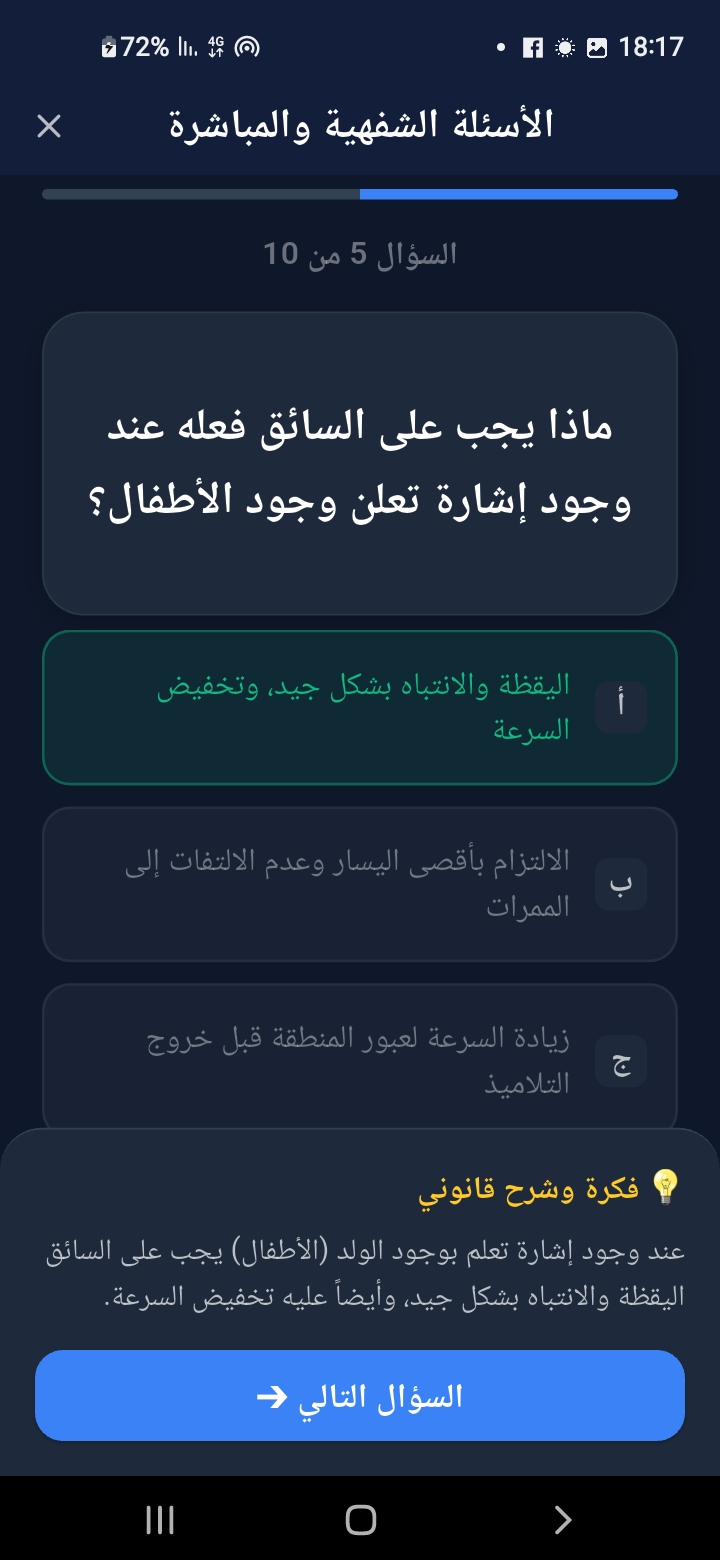
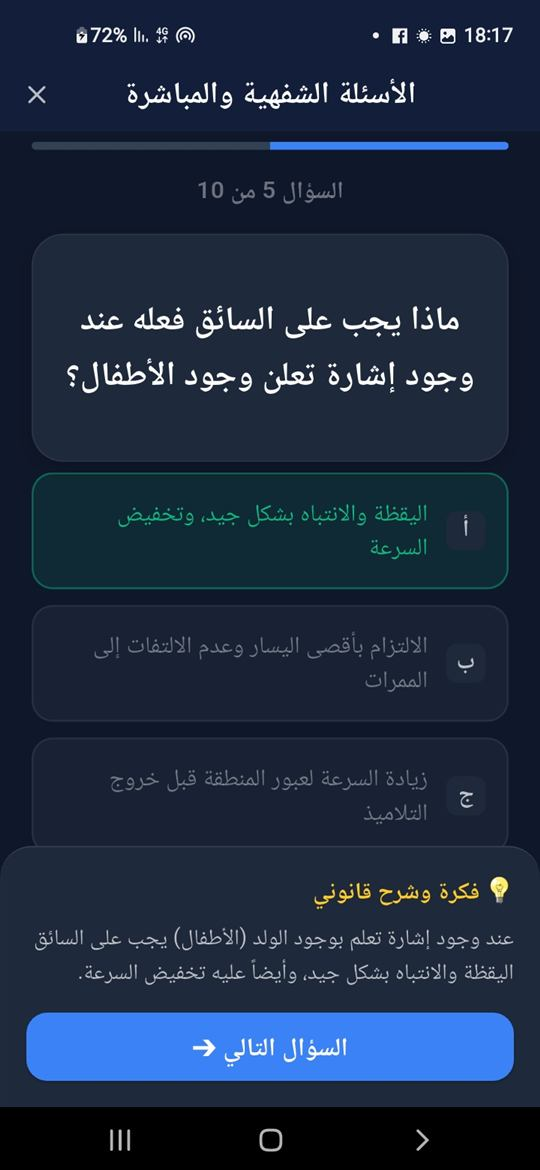
perf(web): branded boot loader, lighter assets, faster startup
- add custom flutter_bootstrap.js that hides the splash only after runApp()
  and shows a retry message after 60s
- index.html: remove blocking pdf.js, lang=ar/dir=rtl, real Arabic title,
  description + OG/Twitter tags, preconnect gstatic/fonts.gstatic, preload
  main.dart.js, lightweight CSS boot screen (no extra image request)
- disable the deprecated Flutter service worker (avoids a forced reload)
- resize logo 824px/1.13MB -> 384px/255KB
- recompress app screenshots 720px -> 540px (1.29MB -> 310KB total)
- Arabic document title from MaterialApp

diff --git a/web/index.html b/web/index.html
@@ -1,50 +1,169 @@
 <!DOCTYPE html>
-<html>
+<html lang="ar" dir="rtl">
 
 <head>
-  <!--
-    If you are serving your web app in a path other than the root, change the
-    href value below to reflect the base path you are serving from.
-
-    The path provided below has to start and end with a slash "/" in order for
-    it to work correctly.
-
-    For more details:
-    * https://developer.mozilla.org/en-US/docs/Web/HTML/Element/base
-
-    This is a placeholder for base href that will be replaced by the value of
-    the `--base-href` argument provided to `flutter build`.
-  -->
   <base href="$FLUTTER_BASE_HREF">
 
   <meta charset="UTF-8">
   <meta content="IE=Edge" http-equiv="X-UA-Compatible">
-  <meta name="description" content="A new Flutter project.">
+  <meta name="viewport" content="width=device-width, initial-scale=1.0, viewport-fit=cover">
+  <meta name="theme-color" content="#0F4C81">
+
+  <title>فيراج | تحضير امتحان رخصة السياقة في الجزائر</title>
+  <meta name="description"
+    content="فيراج (VIRAGE): تطبيق جزائري لتحضير امتحان رخصة السياقة — أسئلة الامتحان النظري، الإشارات المرورية، الأسئلة الشفهية، والثقافة المرورية. تدرّب وحمّل التطبيق مجاناً.">
+  <meta name="keywords" content="رخصة السياقة, امتحان السياقة, فيراج, VIRAGE, الإشارات المرورية, الأسئلة الشفهية, الجزائر">
+  <link rel="canonical" href="https://best1of1me.github.io/virage_web/">
+
+  <!-- Open Graph / Twitter -->
+  <meta property="og:type" content="website">
+  <meta property="og:site_name" content="فيراج - VIRAGE">
+  <meta property="og:locale" content="ar_DZ">
+  <meta property="og:title" content="فيراج | تحضير امتحان رخصة السياقة في الجزائر">
+  <meta property="og:description"
+    content="أسئلة الامتحان النظري، الإشارات المرورية، الأسئلة الشفهية والثقافة المرورية — كل ما تحتاجه للنجاح في امتحان رخصة السياقة.">
+  <meta property="og:url" content="https://best1of1me.github.io/virage_web/">
+  <meta property="og:image" content="https://best1of1me.github.io/virage_web/icons/Icon-512.png">
+  <meta name="twitter:card" content="summary_large_image">
+  <meta name="twitter:title" content="فيراج | تحضير امتحان رخصة السياقة في الجزائر">
+  <meta name="twitter:description"
+    content="أسئلة الامتحان النظري، الإشارات المرورية، الأسئلة الشفهية والثقافة المرورية — كل ما تحتاجه للنجاح.">
+  <meta name="twitter:image" content="https://best1of1me.github.io/virage_web/icons/Icon-512.png">
 
   <!-- iOS meta tags & icons -->
   <meta name="mobile-web-app-capable" content="yes">
-  <meta name="apple-mobile-web-app-status-bar-style" content="black">
-  <meta name="apple-mobile-web-app-title" content="virage_web">
+  <meta name="apple-mobile-web-app-status-bar-style" content="black-translucent">
+  <meta name="apple-mobile-web-app-title" content="فيراج">
   <link rel="apple-touch-icon" href="icons/Icon-192.png">
 
   <!-- Favicon -->
   <link rel="icon" type="image/png" href="favicon.png" />
 
-  <title>virage_web</title>
   <link rel="manifest" href="manifest.json">
+
+  <!-- Speed up the CanvasKit download from gstatic -->
+  <link rel="preconnect" href="https://www.gstatic.com" crossorigin>
+  <link rel="dns-prefetch" href="https://www.gstatic.com">
+  <!-- CanvasKit fetches fallback fonts (Arabic/Latin) from fonts.gstatic.com -->
+  <link rel="preconnect" href="https://fonts.gstatic.com" crossorigin>
+  <!-- Start the app bundle download in parallel with flutter_bootstrap.js -->
+  <link rel="preload" href="main.dart.js" as="script">
+
+  <style>
+    :root {
+      --brand: #0F4C81;
+      --brand-2: #1E88E5;
+    }
+
+    html,
+    body {
+      margin: 0;
+      padding: 0;
+      height: 100%;
+      background: #F4F6F8;
+      font-family: "Segoe UI", "Noto Kufi Arabic", "Cairo", Tahoma, Arial, sans-serif;
+    }
+
+    #boot-loader {
+      position: fixed;
+      inset: 0;
+      z-index: 2147483647;
+      display: flex;
+      flex-direction: column;
+      align-items: center;
+      justify-content: center;
+      gap: 18px;
+      background: linear-gradient(160deg, var(--brand) 0%, #0B3A63 55%, var(--brand-2) 100%);
+      color: #fff;
+      transition: opacity .35s ease;
+      overscroll-behavior: none;
+      text-align: center;
+      padding: 24px;
+      box-sizing: border-box;
+    }
+
+    #boot-loader.is-hidden {
+      opacity: 0;
+      pointer-events: none;
+    }
+
+    .boot-mark {
+      font-size: clamp(34px, 11vw, 56px);
+      font-weight: 800;
+      letter-spacing: .22em;
+      margin-inline-start: .22em;
+      line-height: 1;
+    }
+
+    .boot-mark span {
+      color: #8FD3FF;
+    }
+
+    .boot-sub {
+      font-size: 15px;
+      opacity: .92;
+      margin: 0;
+      max-width: 22em;
+      line-height: 1.7;
+    }
+
+    .boot-ring {
+      width: 34px;
+      height: 34px;
+      border-radius: 50%;
+      border: 3px solid rgba(255, 255, 255, .25);
+      border-top-color: #fff;
+      animation: boot-spin 900ms linear infinite;
+    }
+
+    @keyframes boot-spin {
+      to {
+        transform: rotate(360deg);
+      }
+    }
+
+    #boot-failure {
+      display: none;
+      font-size: 14px;
+      line-height: 1.9;
+      background: rgba(0, 0, 0, .22);
+      padding: 14px 18px;
+      border-radius: 14px;
+      max-width: 26em;
+    }
+
+    #boot-failure a {
+      color: #FFE9A8;
+    }
+
+    @media (prefers-reduced-motion: reduce) {
+      .boot-ring {
+        animation-duration: 3s;
+      }
+    }
+  </style>
 </head>
 
 <body>
-  <!--
-    You can customize the "flutter_bootstrap.js" script.
-    This is useful to provide a custom configuration to the Flutter loader
-    or to give the user feedback during the initialization process.
+  <div id="boot-loader" role="status" aria-live="polite">
+    <div class="boot-mark">VIR<span>A</span>GE</div>
+    <div class="boot-ring"></div>
+    <p class="boot-sub">جارٍ تجهيز التطبيق… لحظات من فضلك</p>
+    <div id="boot-failure">
+      تعذّر تحميل التطبيق. تحقّق من اتصالك بالإنترنت ثم
+      <a href="./">أعد المحاولة</a>.
+    </div>
+  </div>
 
-    For more details:
-    * https://docs.flutter.dev/platform-integration/web/initialization
-  -->
+  <noscript>
+    <div style="position:fixed;inset:0;display:flex;align-items:center;justify-content:center;
+                background:#0F4C81;color:#fff;font-family:Tahoma,Arial,sans-serif;
+                text-align:center;padding:24px;line-height:1.8">
+      يحتاج موقع فيراج إلى تفعيل JavaScript للعمل. يُرجى تفعيله في المتصفح ثم إعادة تحميل الصفحة.
+    </div>
+  </noscript>
+
   <script src="flutter_bootstrap.js" async></script>
-  <script src="https://cdn.jsdelivr.net/npm/pdfjs-dist@2.12.313/build/pdf.js"></script>
 </body>
 
 </html>

diff --git a/web/flutter_bootstrap.js b/web/flutter_bootstrap.js
@@ -1,0 +1,59 @@
+// Custom Flutter web bootstrap.
+// 1. Removes the branded boot loader only once the app is actually running.
+// 2. Shows a friendly retry message if startup takes too long.
+{{flutter_js}}
+{{flutter_build_config}}
+
+(function () {
+  var loader = document.getElementById('boot-loader');
+  var failure = document.getElementById('boot-failure');
+  var hidden = false;
+
+  function hideLoader() {
+    if (hidden || !loader) return;
+    hidden = true;
+    // Wait two frames so the first Flutter frame is on screen behind the loader.
+    requestAnimationFrame(function () {
+      requestAnimationFrame(function () {
+        loader.classList.add('is-hidden');
+        setTimeout(function () {
+          if (loader.parentNode) loader.parentNode.removeChild(loader);
+        }, 400);
+      });
+    });
+  }
+
+  function showFailure() {
+    if (hidden) return;
+    var ring = loader && loader.querySelector('.boot-ring');
+    if (ring && ring.parentNode) ring.parentNode.removeChild(ring);
+    if (failure) failure.style.display = 'block';
+  }
+
+  var timeout = setTimeout(showFailure, 60000);
+
+  try {
+    _flutter.loader
+      .load({
+        onEntrypointLoaded: async function (engineInitializer) {
+          var appRunner = await engineInitializer.initializeEngine();
+          await appRunner.runApp();
+          clearTimeout(timeout);
+          hideLoader();
+        },
+      })
+      .then(function () {
+        // Fallback: some engine versions resolve load() before the first frame.
+        setTimeout(hideLoader, 1500);
+      })
+      .catch(function (error) {
+        console.error('Flutter failed to start:', error);
+        clearTimeout(timeout);
+        showFailure();
+      });
+  } catch (error) {
+    console.error('Flutter failed to start:', error);
+    clearTimeout(timeout);
+    showFailure();
+  }
+})();

diff --git a/lib/main.dart b/lib/main.dart
@@ -84,7 +84,7 @@ class VirageApp extends StatelessWidget {
       valueListenable: themeNotifier,
       builder: (context, currentMode, child) {
         return MaterialApp.router(
-          title: 'Virage Dashboard',
+          title: 'فيراج | تحضير امتحان رخصة السياقة',
           debugShowCheckedModeBanner: false,
           theme: AppTheme.lightTheme,
           darkTheme: AppTheme.darkTheme,
